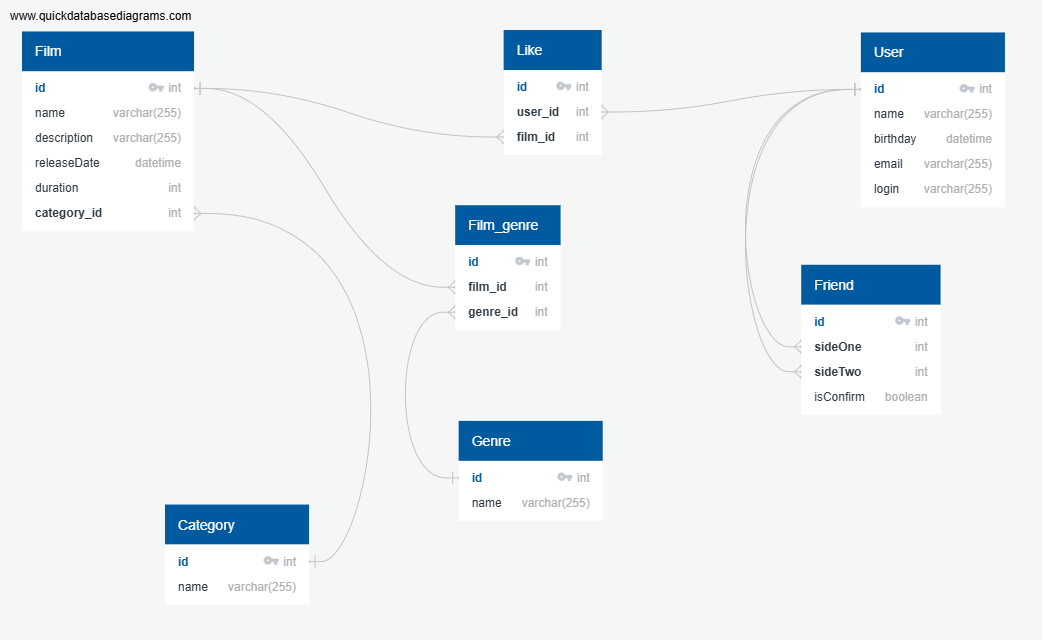
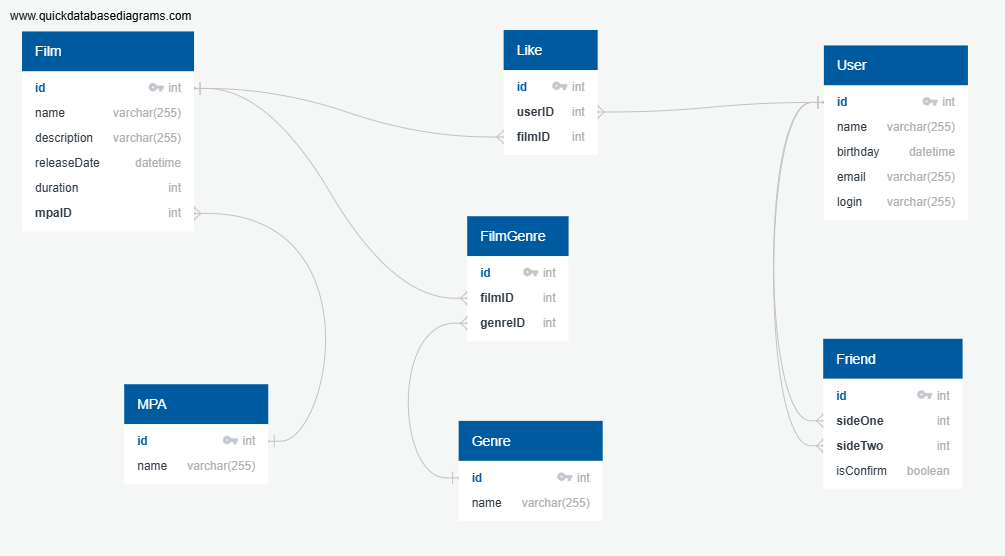
Начало

diff --git a/src/main/java/ru/yandex/practicum/filmorate/mappers/FilmRowMapper.java b/src/main/java/ru/yandex/practicum/filmorate/mappers/FilmRowMapper.java
@@ -1,0 +1,21 @@
+package ru.yandex.practicum.filmorate.mappers;
+
+import org.springframework.jdbc.core.RowMapper;
+import ru.yandex.practicum.filmorate.model.Film;
+
+import java.sql.ResultSet;
+import java.sql.SQLException;
+
+public class FilmRowMapper implements RowMapper<Film> {
+    @Override
+    public Film mapRow(ResultSet resultSet, int rowNum) throws SQLException {
+        Film film = new Film();
+        film.setId(resultSet.getLong("id"));
+        film.setName(resultSet.getString("name"));
+        film.setDescription(resultSet.getString("description"));
+        film.setReleaseDate(resultSet.getDate("releaseDate").toLocalDate());
+        film.setDuration(resultSet.getInt("duration"));
+        film.setCategoryID(resultSet.getInt("categoryID"));
+        return film;
+    }
+}

diff --git a/src/main/java/ru/yandex/practicum/filmorate/model/Film.java b/src/main/java/ru/yandex/practicum/filmorate/model/Film.java
@@ -36,5 +36,8 @@ public class Film extends AbstaractType {
     @NotNull(message = "Продолжительность фильма должна быть задана")
     @Min(value = 1, message = "Продолжительность фильма должна быть положительным числом")
     private Integer duration;
+    // категория фильма
+
+    private int categoryID;
 
 }

diff --git a/src/main/java/ru/yandex/practicum/filmorate/model/Friend.java b/src/main/java/ru/yandex/practicum/filmorate/model/Friend.java
@@ -1,0 +1,15 @@
+package ru.yandex.practicum.filmorate.model;
+
+import lombok.AllArgsConstructor;
+import lombok.Data;
+import lombok.NoArgsConstructor;
+
+@Data
+@AllArgsConstructor
+@NoArgsConstructor
+public class Friend {
+    private long id;
+    private long sideOne;
+    private long sideTwo;
+    private boolean isConfirm;
+}

diff --git a/src/main/java/ru/yandex/practicum/filmorate/model/FilmGenre.java b/src/main/java/ru/yandex/practicum/filmorate/model/FilmGenre.java
@@ -1,0 +1,15 @@
+package ru.yandex.practicum.filmorate.model;
+
+import lombok.AllArgsConstructor;
+import lombok.Data;
+import lombok.NoArgsConstructor;
+
+@Data
+@AllArgsConstructor
+@NoArgsConstructor
+public class FilmGenre {
+    private long id;
+    private long filmID;
+    private int genreID;
+
+}

diff --git a/src/main/java/ru/yandex/practicum/filmorate/model/Like.java b/src/main/java/ru/yandex/practicum/filmorate/model/Like.java
@@ -1,0 +1,14 @@
+package ru.yandex.practicum.filmorate.model;
+
+import lombok.AllArgsConstructor;
+import lombok.Data;
+import lombok.NoArgsConstructor;
+
+@Data
+@AllArgsConstructor
+@NoArgsConstructor
+public class Like {
+    private long id;
+    private long userID;
+    private long filmID;
+}

diff --git a/src/main/java/ru/yandex/practicum/filmorate/model/Category.java b/src/main/java/ru/yandex/practicum/filmorate/model/Category.java
@@ -1,0 +1,14 @@
+package ru.yandex.practicum.filmorate.model;
+
+import lombok.AllArgsConstructor;
+import lombok.Data;
+import lombok.NoArgsConstructor;
+
+@Data
+@AllArgsConstructor
+@NoArgsConstructor
+public class Category {
+    public int id;
+    public String
+            name;
+}

diff --git a/src/main/java/ru/yandex/practicum/filmorate/model/Genre.java b/src/main/java/ru/yandex/practicum/filmorate/model/Genre.java
@@ -1,0 +1,13 @@
+package ru.yandex.practicum.filmorate.model;
+
+import lombok.AllArgsConstructor;
+import lombok.Data;
+import lombok.NoArgsConstructor;
+
+@Data
+@AllArgsConstructor
+@NoArgsConstructor
+public class Genre {
+    private int id;
+    private String name;
+}

diff --git a/src/main/java/ru/yandex/practicum/filmorate/model/MPA.java b/src/main/java/ru/yandex/practicum/filmorate/model/MPA.java
@@ -1,0 +1,4 @@
+package ru.yandex.practicum.filmorate.model;
+
+public class MPA {
+}
